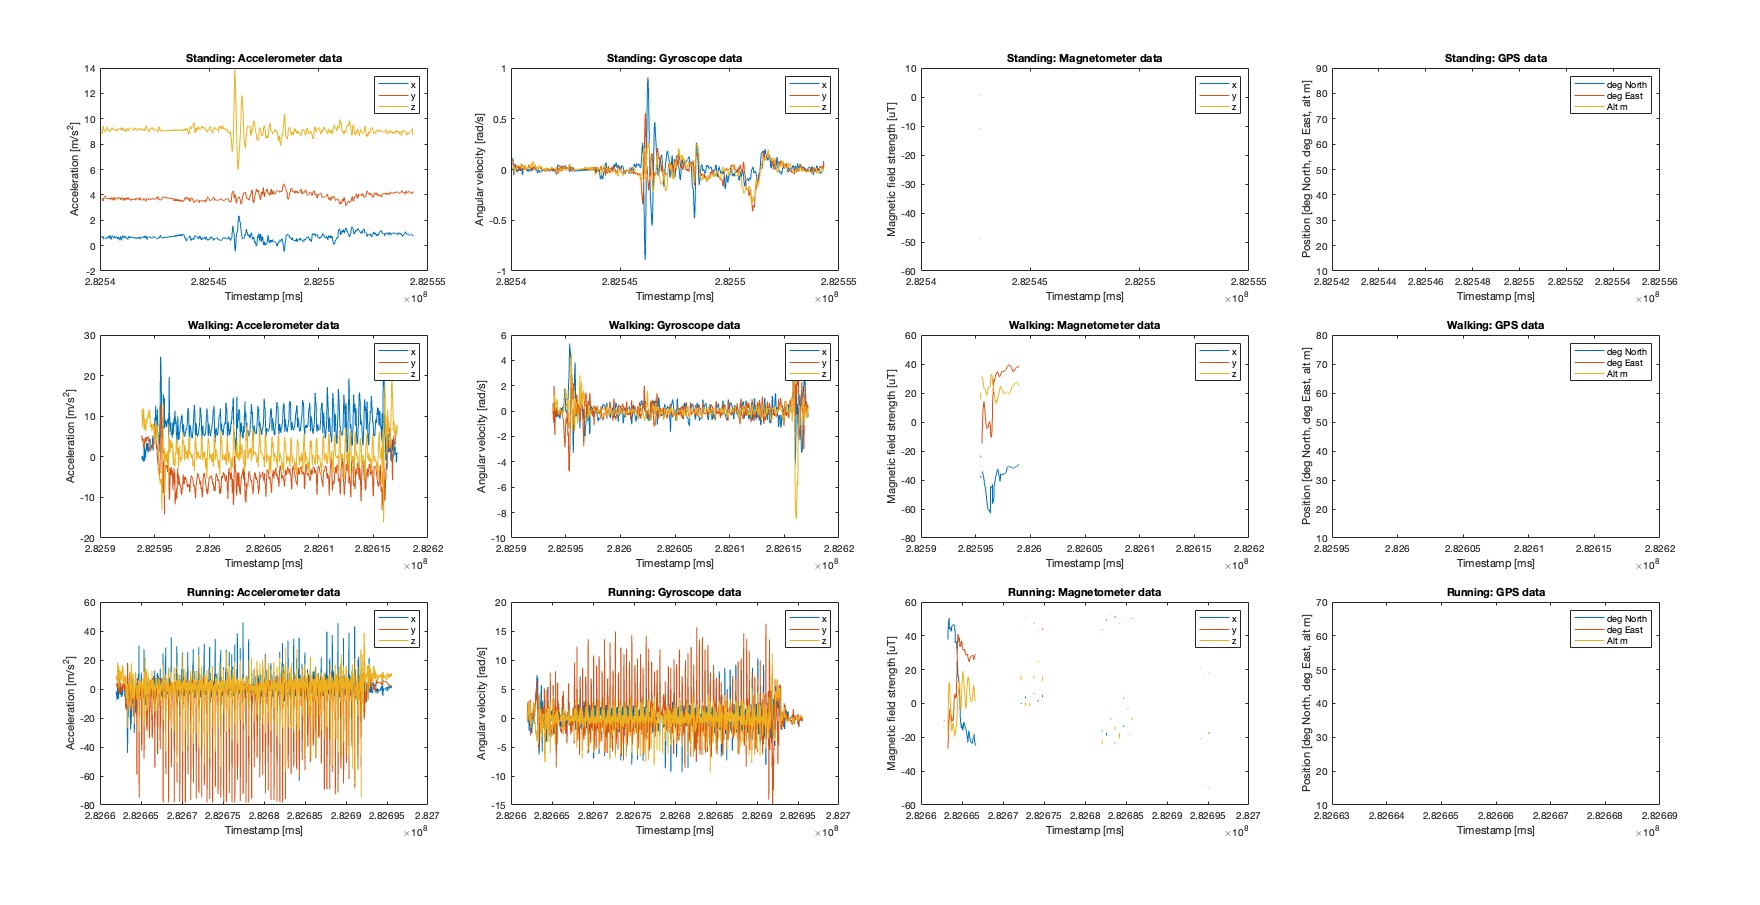
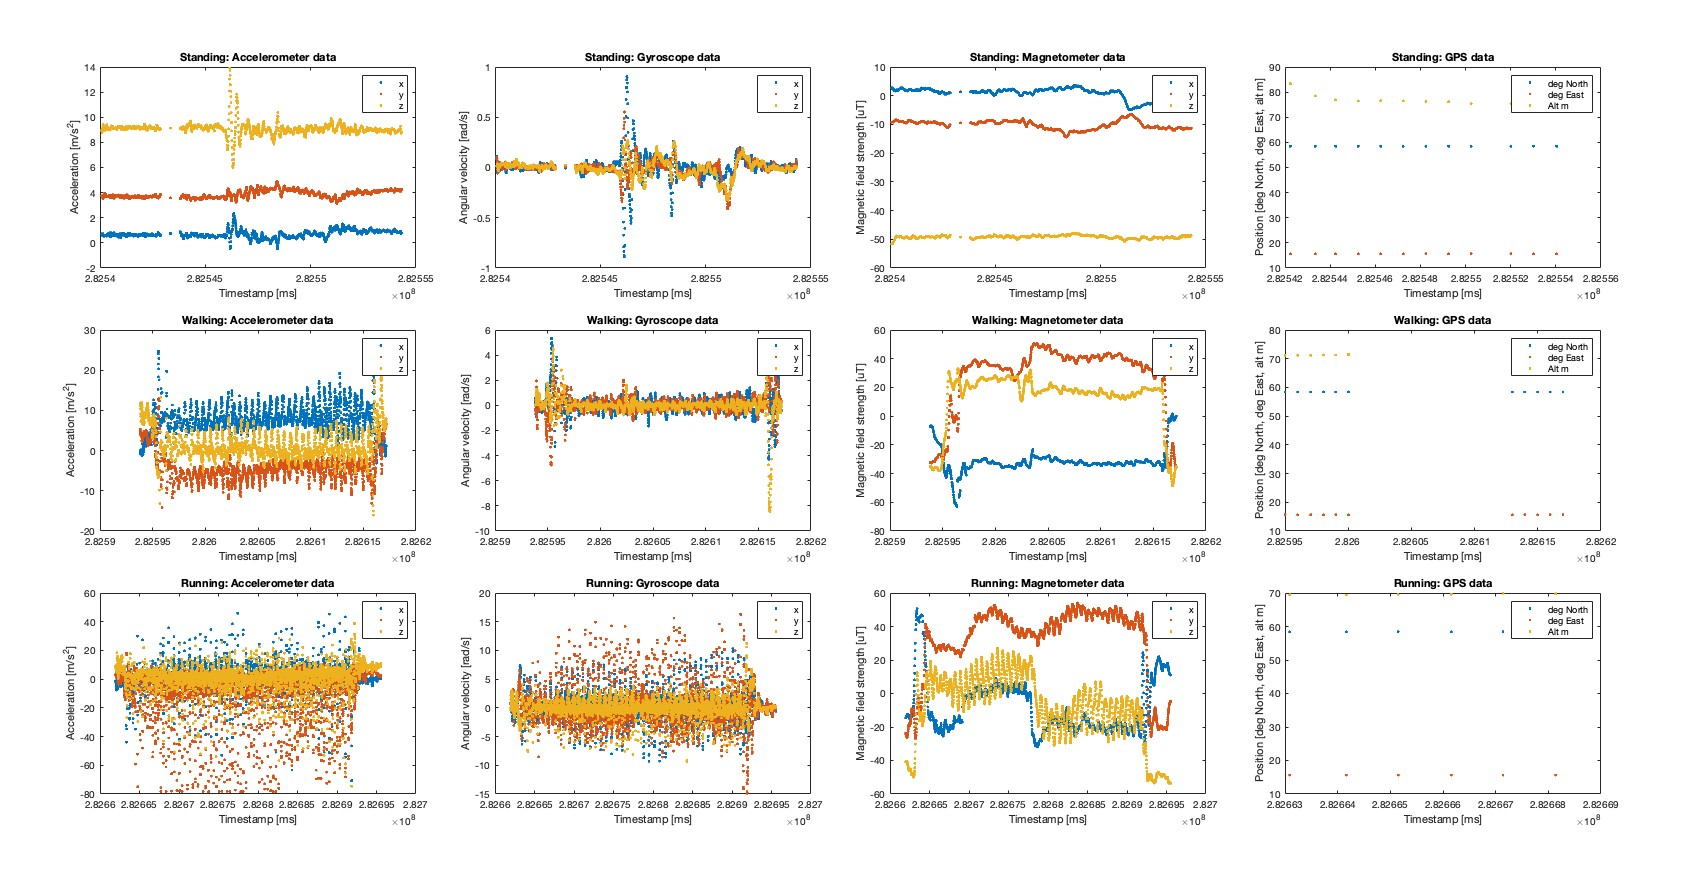
fixing missing sensor data in plots

diff --git a/data_reader.m b/data_reader.m
@@ -44,7 +44,7 @@ tiledlayout(3,4);
 
 % Accelerometer data
 nexttile;
-plot(stillData(:,1), stillData(:,2:4));
+plot(stillData(:,1), stillData(:,2:4), '.');
 legend("x", "y", "z")
 xlabel("Timestamp [ms]")
 ylabel("Acceleration [m/s^2]")
@@ -52,7 +52,7 @@ title("Standing: Accelerometer data")
 
 % Gyroscope data
 nexttile;
-plot(stillData(:,1), stillData(:,5:7));
+plot(stillData(:,1), stillData(:,5:7), '.');
 legend("x", "y", "z")
 xlabel("Timestamp [ms]")
 ylabel("Angular velocity [rad/s]")
@@ -60,7 +60,7 @@ title("Standing: Gyroscope data")
 
 % Magnetometer data
 nexttile;
-plot(stillData(:,1), stillData(:,8:10));
+plot(stillData(:,1), stillData(:,8:10), '.');
 legend("x", "y", "z")
 xlabel("Timestamp [ms]")
 ylabel("Magnetic field strength [uT]")
@@ -68,7 +68,7 @@ title("Standing: Magnetometer data")
 
 % GPS data
 nexttile;
-plot(stillData(:,1), stillData(:,11:13));
+plot(stillData(:,1), stillData(:,11:13), '.');
 legend("deg North", "deg East", "Alt m")
 xlabel("Timestamp [ms]")
 ylabel("Position [deg North, deg East, alt m]")
@@ -78,7 +78,7 @@ title("Standing: GPS data")
 
 % Accelerometer data
 nexttile;
-plot(walkData(:,1), walkData(:,2:4));
+plot(walkData(:,1), walkData(:,2:4), '.');
 legend("x", "y", "z")
 xlabel("Timestamp [ms]")
 ylabel("Acceleration [m/s^2]")
@@ -86,7 +86,7 @@ title("Walking: Accelerometer data")
 
 % Gyroscope data
 nexttile;
-plot(walkData(:,1), walkData(:,5:7));
+plot(walkData(:,1), walkData(:,5:7), '.');
 legend("x", "y", "z")
 xlabel("Timestamp [ms]")
 ylabel("Angular velocity [rad/s]")
@@ -94,7 +94,7 @@ title("Walking: Gyroscope data")
 
 % Magnetometer data
 nexttile;
-plot(walkData(:,1), walkData(:,8:10));
+plot(walkData(:,1), walkData(:,8:10), '.');
 legend("x", "y", "z")
 xlabel("Timestamp [ms]")
 ylabel("Magnetic field strength [uT]")
@@ -102,7 +102,7 @@ title("Walking: Magnetometer data")
 
 % GPS data
 nexttile;
-plot(walkData(:,1), walkData(:,11:13));
+plot(walkData(:,1), walkData(:,11:13), '.');
 legend("deg North", "deg East", "Alt m")
 xlabel("Timestamp [ms]")
 ylabel("Position [deg North, deg East, alt m]")
@@ -112,7 +112,7 @@ title("Walking: GPS data")
 
 % Accelerometer data
 nexttile;
-plot(runData(:,1), runData(:,2:4));
+plot(runData(:,1), runData(:,2:4), '.');
 legend("x", "y", "z")
 xlabel("Timestamp [ms]")
 ylabel("Acceleration [m/s^2]")
@@ -120,7 +120,7 @@ title("Running: Accelerometer data")
 
 % Gyroscope data
 nexttile;
-plot(runData(:,1), runData(:,5:7));
+plot(runData(:,1), runData(:,5:7), '.');
 legend("x", "y", "z")
 xlabel("Timestamp [ms]")
 ylabel("Angular velocity [rad/s]")
@@ -128,7 +128,7 @@ title("Running: Gyroscope data")
 
 % Magnetometer data
 nexttile;
-plot(runData(:,1), runData(:,8:10));
+plot(runData(:,1), runData(:,8:10), '.');
 legend("x", "y", "z")
 xlabel("Timestamp [ms]")
 ylabel("Magnetic field strength [uT]")
@@ -136,7 +136,7 @@ title("Running: Magnetometer data")
 
 % GPS data
 nexttile;
-plot(runData(:,1), runData(:,11:13));
+plot(runData(:,1), runData(:,11:13), '.');
 legend("deg North", "deg East", "Alt m")
 xlabel("Timestamp [ms]")
 ylabel("Position [deg North, deg East, alt m]")
